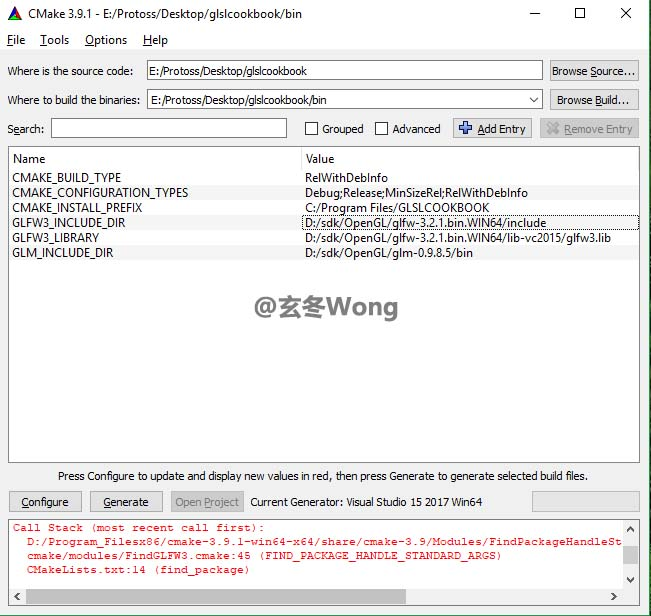
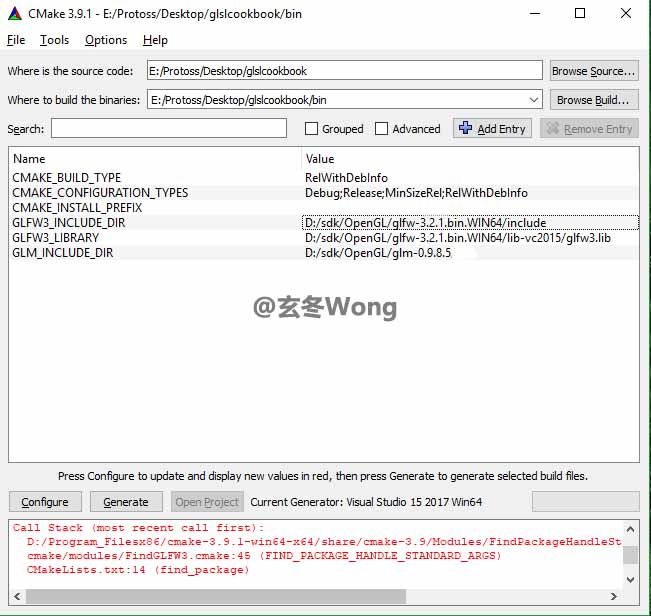
[U]update article

diff --git a/content/post/2017/[OpenGL]GLSHCookbook源码编译步骤流程.md b/content/post/2017/[OpenGL]GLSHCookbook源码编译步骤流程.md
@@ -22,8 +22,17 @@ https://github.com/daw42/glslcookbook
 {{< figure src="/img/20170906-[OpenGL]GLSHCookbook源码编译步骤流程/[OpenGL]GLSHCookbook源码编译步骤流程-01.jpg">}}
 这时需要指定GLM的依赖库位置，这个位置就是步骤1中的生成的GLM库的bin目录。注意这个bin目录不是GLM自带的，是通过cmake-gui指定生成的。
 
-在指定GLM_INCLUDE_DIR之后，再点击Generate，又会出现新的错误，提示GLFW找不到，这时需要再指定GLFW的bin目录，即步骤2中下载的GLFW lib和头文件。
+在指定GLM_INCLUDE_DIR之后，再点击Generate，又会出现新的错误，提示GLFW找不到，这时需要再指定GLFW的相关目录，即步骤2中下载的GLFW lib和头文件。
 {{< figure src="/img/20170906-[OpenGL]GLSHCookbook源码编译步骤流程/[OpenGL]GLSHCookbook源码编译步骤流程-02.jpg">}}
+
+参数解释：
+
++ CMAKE_BUILD_TYPE ：默认，不做修改
++ CMAKE_CONFIGURATION_TYPES ：默认，不做修改
++ CMAKE_INSTALL_PREFIX ：不清楚，删掉也不影响
++ GLFW3_INCLUDE_DIR ：GLFW的头文件目录
++ GLFW3_LIBRARY ：GLFW的静态库目录
++ GLM_INCLUDE_DIR ：GLM的头文件目录
 
 最后生成成功的提示为：
 {{< figure src="/img/20170906-[OpenGL]GLSHCookbook源码编译步骤流程/[OpenGL]GLSHCookbook源码编译步骤流程-03.jpg">}}
@@ -34,8 +43,9 @@ https://github.com/daw42/glslcookbook
 
 
 
-##### 其他：  
-之前在用源码生成GLFW库时，cmake老报一个错误：
+##### 相关错误：
+
+1，之前在用源码生成GLFW库时，cmake老报一个错误：
 
     CMake Error at CMakeLists.txt:6 (find_package):
     Could not find a package configuration file provided by "glm" with any of
@@ -53,5 +63,8 @@ https://github.com/daw42/glslcookbook
 原因：我电脑上之前用cmake-gui构建了几个不同目录的GLFW，可能导致GLFW的路径指向错误。  
 解决办法：删除之前构建的GLFW库，新建一个目录重新生成GLFW库。
 
+2，64位编译错误  
+64位模式下，会提示找不到uint符号
+{{< figure src="/img/20170906-[OpenGL]GLSHCookbook源码编译步骤流程/[OpenGL]GLSHCookbook源码编译步骤流程-06.jpg">}}
 
-    
+解决办法：将uint替换为GLuint。

diff --git a/content/post/2018/[UE4]UMG Widget作为变量访问.md b/content/post/2018/[UE4]UMG Widget作为变量访问.md
@@ -6,6 +6,9 @@ tags= ["UE4"]
 keywords= ["UE4", "Widget Blueprint"]
 +++
 
+默认情况下，UMG蓝图钟的Widget组件只能在当前UMG蓝图钟访问，无法在外部被其他蓝图访问。  
+如果要被外部访问，方式如下：
+
 设计面板（Designer）中勾选Is Variable
 
 {{< figure src="/img/20180401-[UE4]UMG Widget作为变量访问/[UE4]UMG Widget作为变量访问-01.jpg">}}
